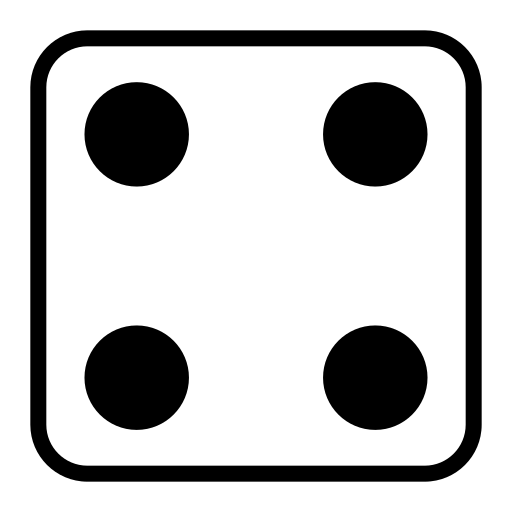
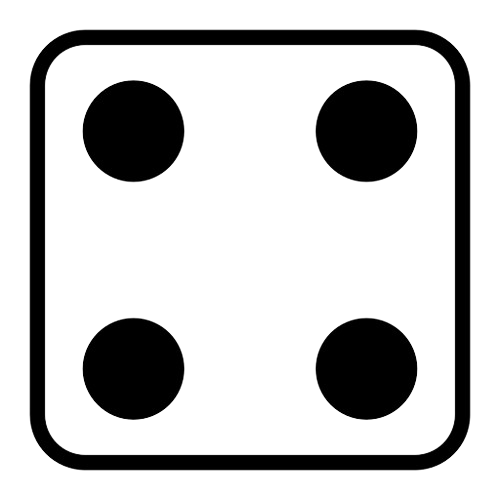
Change backgroud img

diff --git a/index.html b/index.html
@@ -18,7 +18,6 @@
         
         img {
             margin: 50px 100px 50px 100px;
-            background-color: white;
             width: 350px;
         }
 
@@ -100,22 +99,22 @@
             }
             
             if(nbSecondDice == 1){
-                document.getElementById("thirdDice").src = "img/hp-1.jpg";
+                document.getElementById("thirdDice").src = "img/hp-1.png";
             }
             if(nbSecondDice == 2){
-                document.getElementById("thirdDice").src = "img/hp-2.jpg";
+                document.getElementById("thirdDice").src = "img/hp-2.png";
             }
             if(nbSecondDice == 3){
-                document.getElementById("thirdDice").src = "img/hp-3.jpg";
+                document.getElementById("thirdDice").src = "img/hp-3.png";
             }
             if(nbSecondDice == 4){
-                document.getElementById("thirdDice").src = "img/hp-4.jpg";
+                document.getElementById("thirdDice").src = "img/hp-4.png";
             }
             if(nbSecondDice == 5){
-                document.getElementById("thirdDice").src = "img/hp-5.jpg";
+                document.getElementById("thirdDice").src = "img/hp-5.png";
             }
             if(nbSecondDice == 6){
-                document.getElementById("thirdDice").src = "img/hp-6.jpg";
+                document.getElementById("thirdDice").src = "img/hp-6.png";
             }
         }
     </script>
